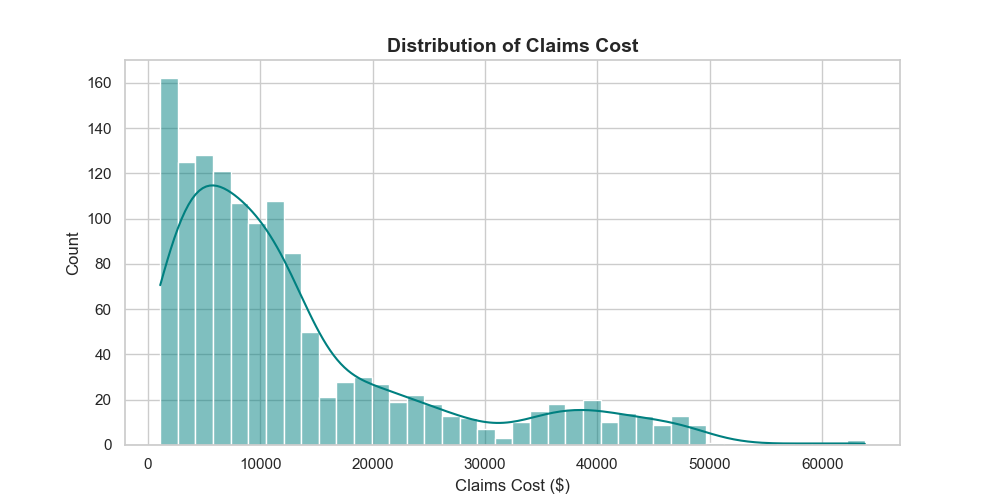
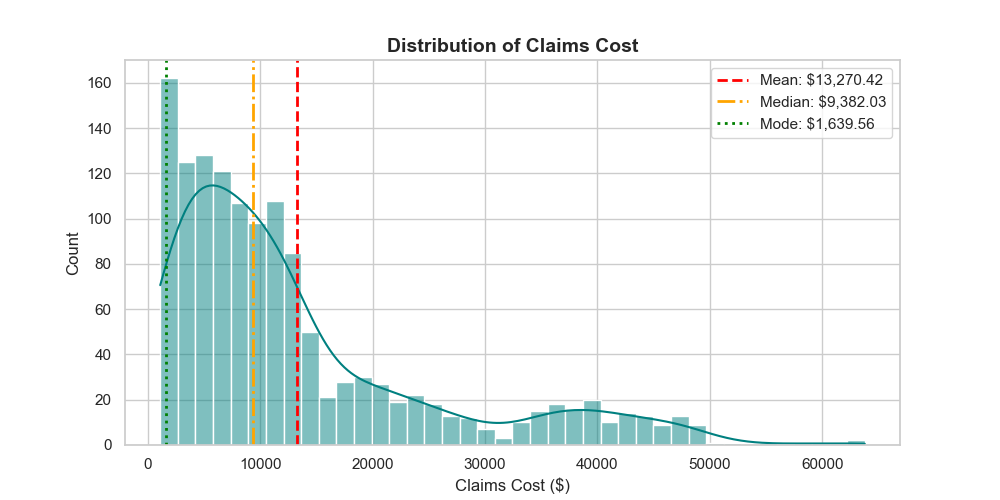
Add mode, median and mean lines to distribution plot

Changed region(s): [[0.713, 0.12, 0.899, 0.27]]

diff --git a/README.md b/README.md
@@ -193,7 +193,7 @@ Instructions for using the project:
 - How could this analysis inform decision-making?   -->
 - **Smoking and BMI combined are associated with the highest claims cost**
 - **Are smoking and BMI signals for increased billing or actual indicators of assocated illness?**
-- The southeast region has the highest claims cost, which is associated with the highest number df smnokers and obese people
+- The southeast region has the highest claims cost, which is associated with the highest number df smokers and obese people
 - Recommendations or next steps for further analysis  
 ---
 
